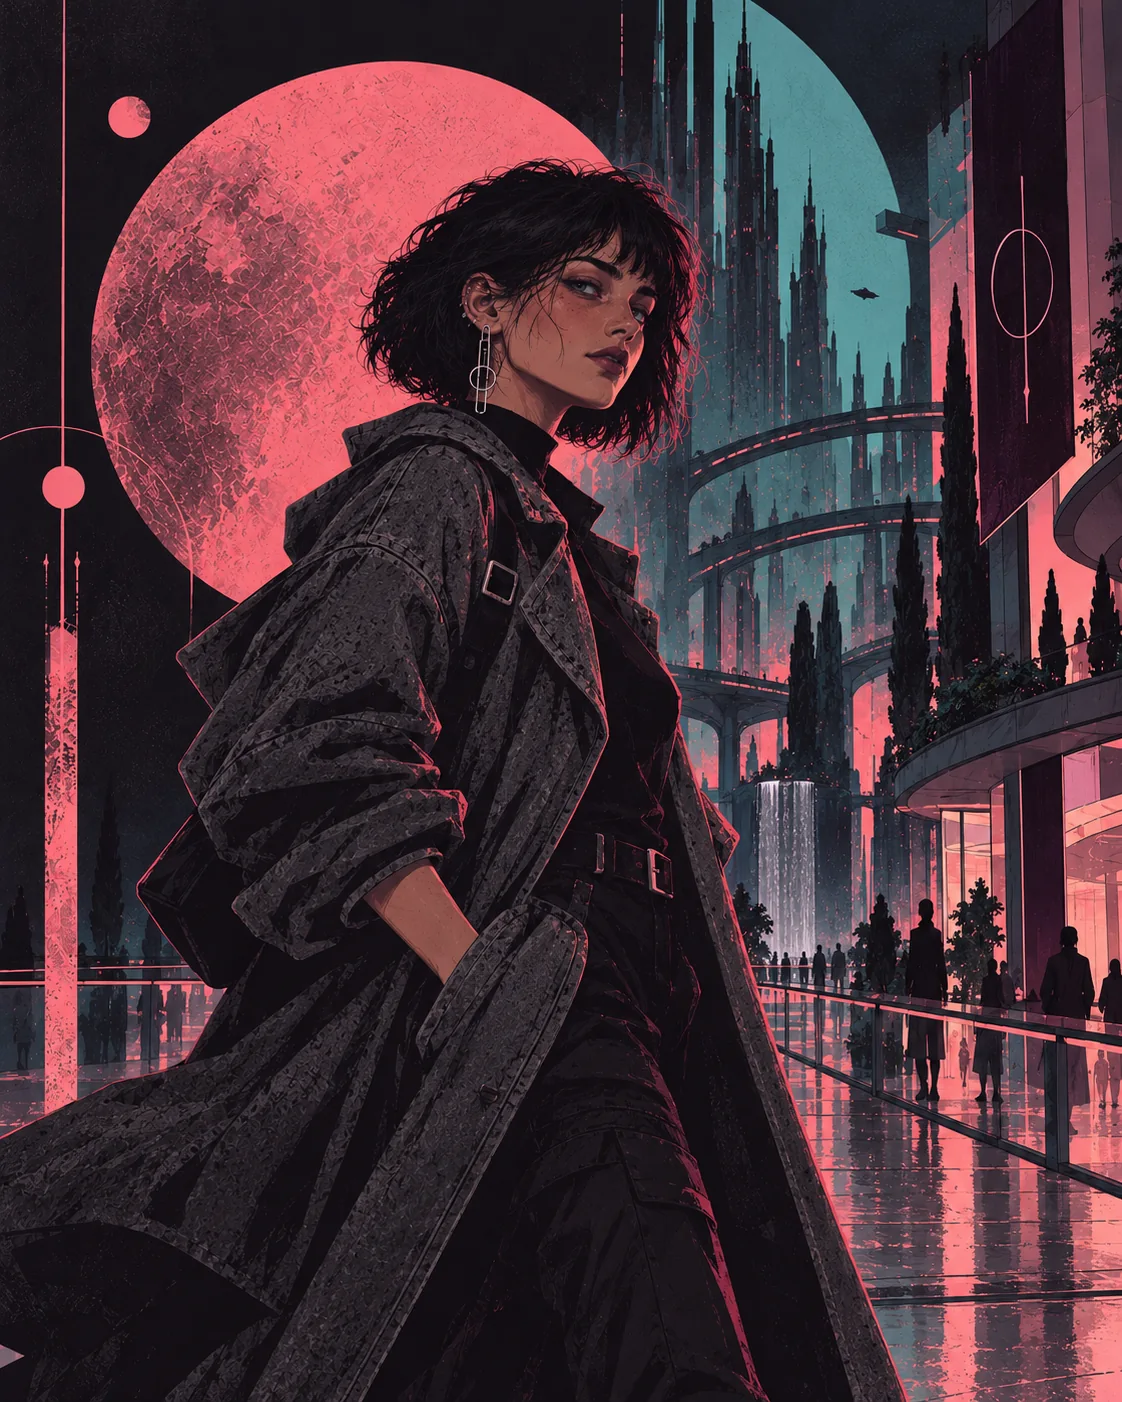
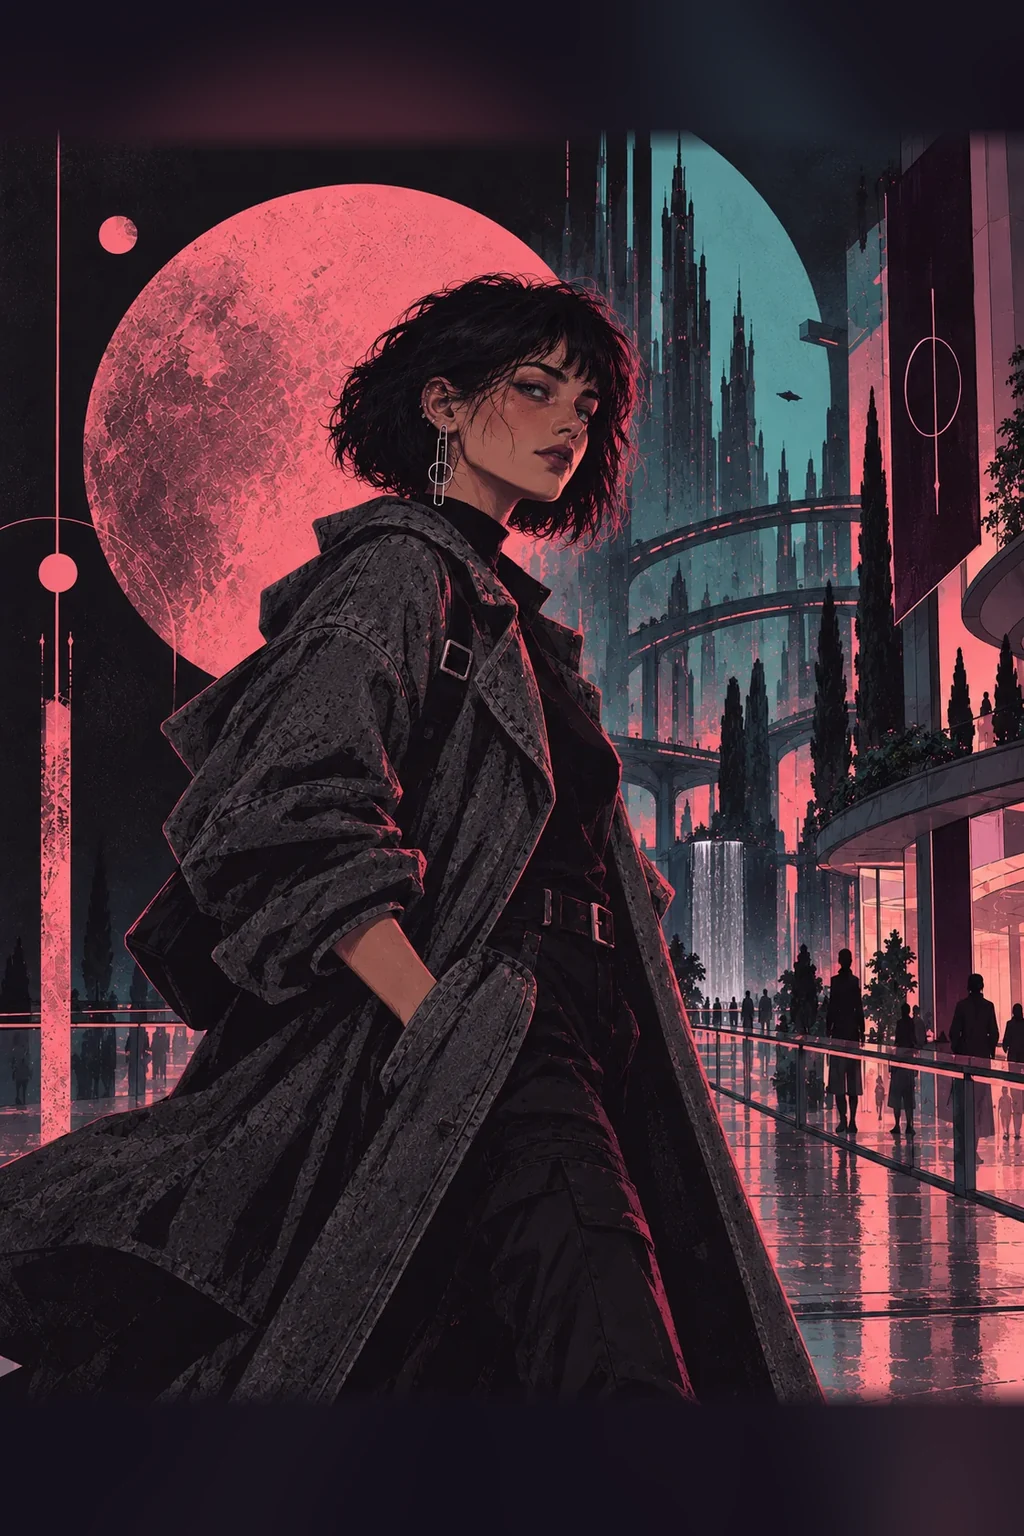
Atlas 3.6: karakter portreleri 1024x1536, kırpmasız Nil ve sabit portre çerçevesi

diff --git a/styles.css b/styles.css
@@ -70,3 +70,22 @@ main{max-width:var(--wide);margin:0 auto;min-height:calc(100vh - 160px)}.loading
 .hero-place-art img{object-fit:contain}
 #homeBrand:focus-visible,.search-button:focus-visible,.record-link:focus-visible,.home-tile:focus-visible,.ghost-btn:focus-visible{outline:3px solid var(--teal);outline-offset:3px}
 @media(max-width:620px){.hero-place{height:480px;min-height:480px;max-height:480px}.record-link small{font-size:12px}.primary-nav button{text-align:left}}
+/* Atlas 3.6 — bütün karakter portreleri 1024×1536, değişmeyen dikey çerçeve */
+.portrait-layout .media-panel{
+  height:680px;
+  min-height:0;
+  max-height:680px;
+  align-self:start;
+}
+.portrait-layout .media-panel img{
+  width:100%;
+  height:100%;
+  object-fit:contain;
+  object-position:center center;
+}
+@media(max-width:900px){
+  .portrait-layout .media-panel{height:590px;max-height:590px;}
+}
+@media(max-width:620px){
+  .portrait-layout .media-panel{height:clamp(390px,74vh,640px);max-height:640px;}
+}

diff --git a/index.html b/index.html
@@ -7,7 +7,7 @@
   <meta name="description" content="SKOPSE evreni için karakterler, şehir, şirketler, sözlük, zaman çizelgesi ve bölüm özetlerini içeren yazar atlası.">
   <title>SKOPSE — Dünya Atlası</title>
   <link rel="icon" href="favicon.svg" type="image/svg+xml">
-  <link rel="stylesheet" href="styles.css?v=35">
+  <link rel="stylesheet" href="styles.css?v=36">
   <script src="app.js?v=35" defer></script>
 </head>
 <body>
